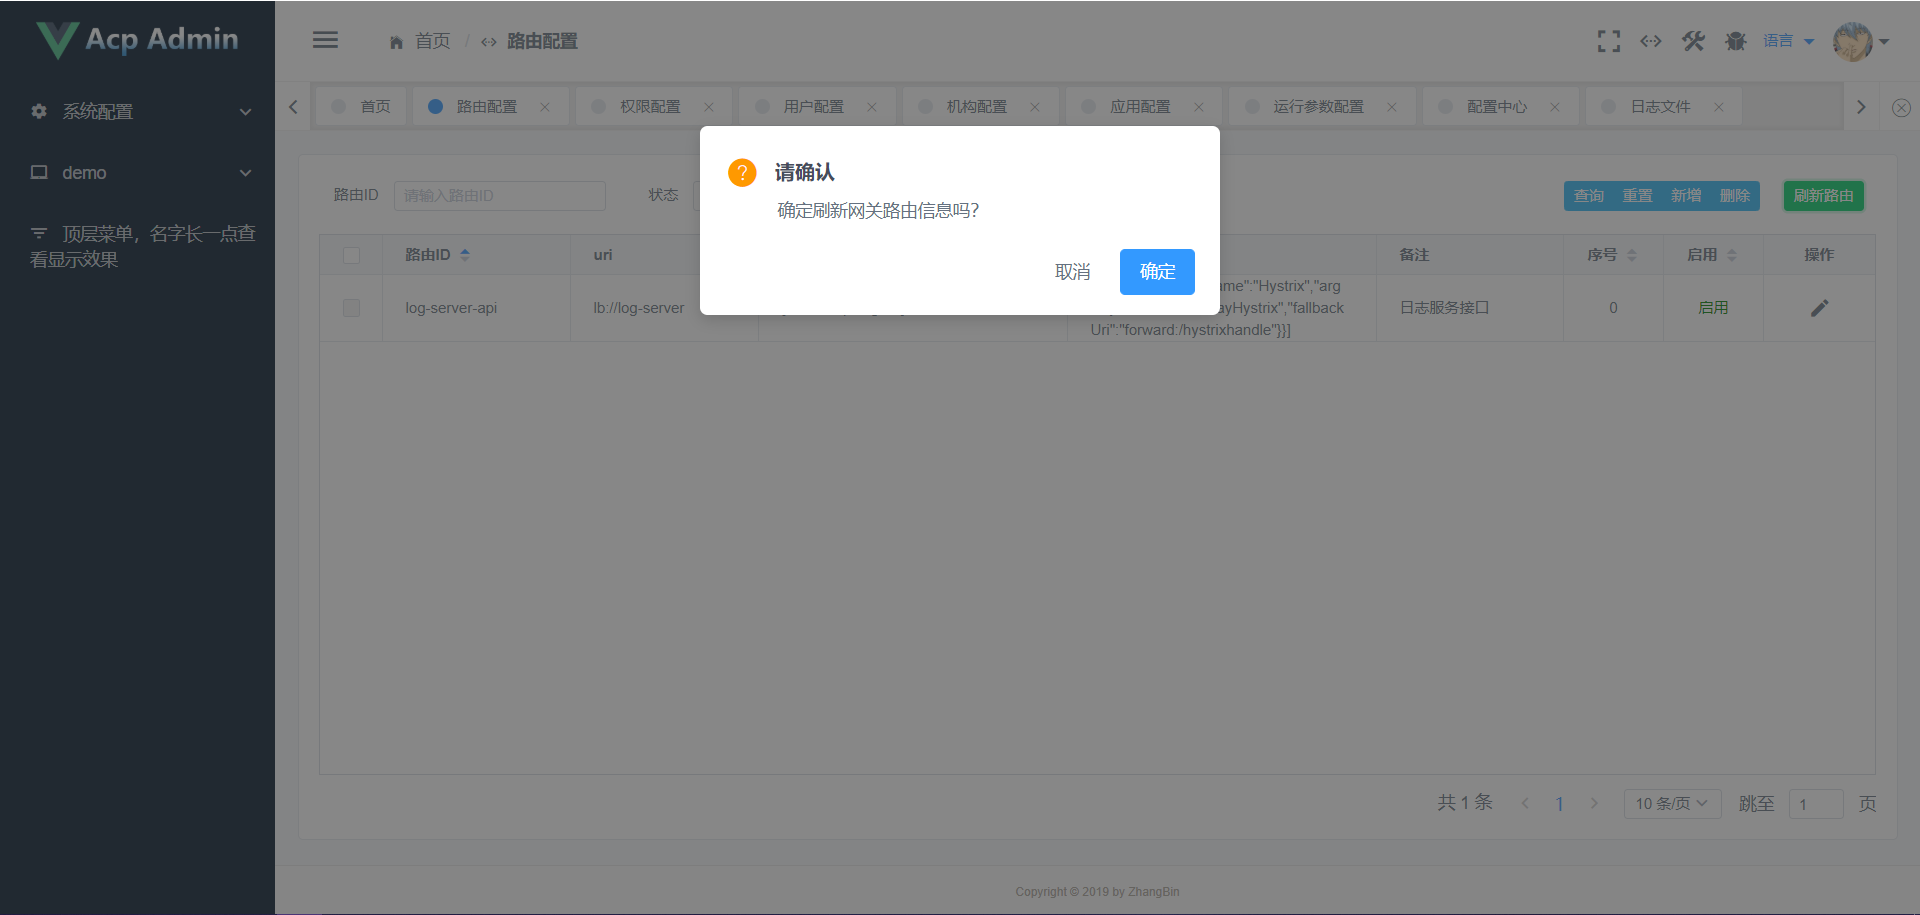
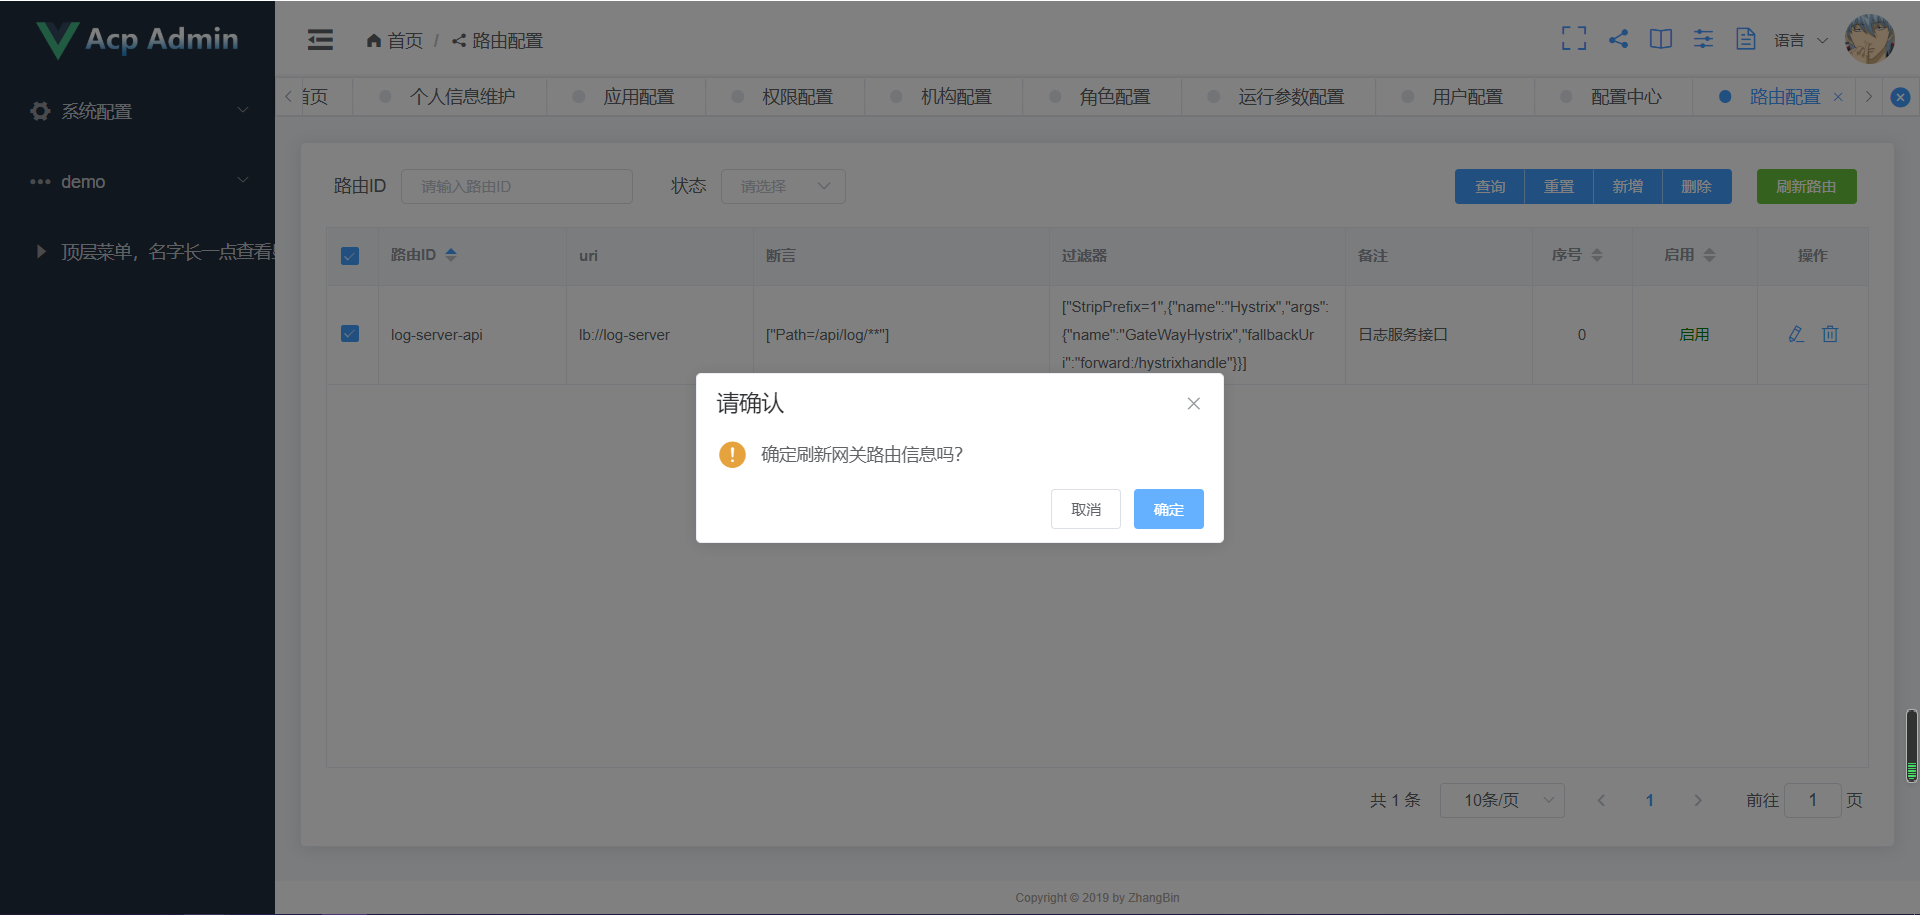
[Upgrade] 更新文档

diff --git a/src/components/layout/tags-nav/tags-nav.vue b/src/components/layout/tags-nav/tags-nav.vue
@@ -14,7 +14,7 @@
     <el-tabs type="card" ref="header-tabs" v-model="currPath" @tab-click="handleClick" @tab-remove="handleClose">
       <el-tab-pane
         :key="item.name"
-        v-for="(item, index) in tagList"
+        v-for="(item) in tagList"
         :label="showTitleInside(item)"
         :name="item.path"
         :data-route-item="item"
@@ -61,12 +61,6 @@
         computed: {
             tagList () {
                 return this.list
-            },
-            contextMenuList () {
-                return {
-                    others: this.$i18n.t('home.closeOther'),
-                    all: this.$i18n.t('home.closeAll')
-                }
             }
         },
         methods: {
@@ -116,11 +110,6 @@
                 this.$nextTick(() => {
                     this.currPath = fullPath
                 })
-            },
-            contextMenu (e) {
-                this.visible = true
-                this.contextMenuLeft = e.clientX + 10
-                this.contextMenuTop = e.clientY - 60
             },
             closeMenu () {
                 this.visible = false

diff --git a/src/components/layout/user/user.vue b/src/components/layout/user/user.vue
@@ -40,12 +40,13 @@
         methods: {
             logout () {
                 this.$api.redirectLogin((callBackFunc) => {
-                    this.$confirm(this.$i18n.t('messages.logoutConfirm'), this.$i18n.t('dialog.confirm'))
-                        .then(() => {
-                            this.$api.request.auth.doLogOut().then(() => {
-                                callBackFunc()
-                            })
-                        }).catch(() => {
+                    this.$confirm(this.$i18n.t('messages.logoutConfirm'), this.$i18n.t('dialog.confirm'), {
+                        type: 'warning'
+                    }).then(() => {
+                        this.$api.request.auth.doLogOut().then(() => {
+                            callBackFunc()
+                        })
+                    }).catch(() => {
                     })
                 })
             },

diff --git a/README.md b/README.md
@@ -26,7 +26,6 @@
 - vuex
 - vue-router
 - axios
-- iview3
 - echarts
 - cropperjs
 - mockjs
@@ -150,9 +149,6 @@ npm install
 ![images](doc/images/pages/login.png)
 - 首页
 ![images](doc/images/pages/index.png)
-- 目前支持主题：dark 和 light
-    - light 主题
-![images](doc/images/pages/light.png)
 - 个人信息
 ![images](doc/images/pages/userinfo.png)
 - 头像裁剪
@@ -160,6 +156,7 @@ npm install
 - 应用配置
 ![images](doc/images/pages/appconfig.png)
 ![images](doc/images/pages/appedit.png)
+![images](doc/images/pages/appupdate.png)
 - 菜单配置
 ![images](doc/images/pages/menu.png)
 - 模块功能配置
@@ -195,37 +192,6 @@ npm install
 - demo
     - 文件上传
 ![images](doc/images/pages/upload.png)
-
-## 六、nodejs 常用命令
-## Project setup
-```
-npm install
-```
-
-### Compiles and hot-reloads for development
-```
-npm run serve
-```
-
-### Compiles and minifies for production
-```
-npm run build
-```
-
-### Run your tests
-```
-npm run test
-```
-
-### Lints and fixes files
-```
-npm run lint
-```
-
-### Run your unit tests
-```
-npm run test:unit
-```
 
 ### Customize configuration
 See [Configuration Reference](https://cli.vuejs.org/config/).

diff --git a/doc/version_history.md b/doc/version_history.md
@@ -1,5 +1,10 @@
 ## 版本更新记录
 ##### v4.0.0
+> - [Upgrade] 更新依赖插件至最新版本
+> - [Upgrade] 页面组件由 iView 替换为 Element-UI
+> - [Upgrade] 优化部分页面逻辑
+> - [Upgrade] 重写树形组件相关算法
+> - [Upgrade] 对应后端版本为 v3.0.6
 ##### v3.0.5
 > - [Upgrade] 更新依赖插件至最新版本
 > - [Upgrade] 角色编码使用自动补全，可自定义输入
